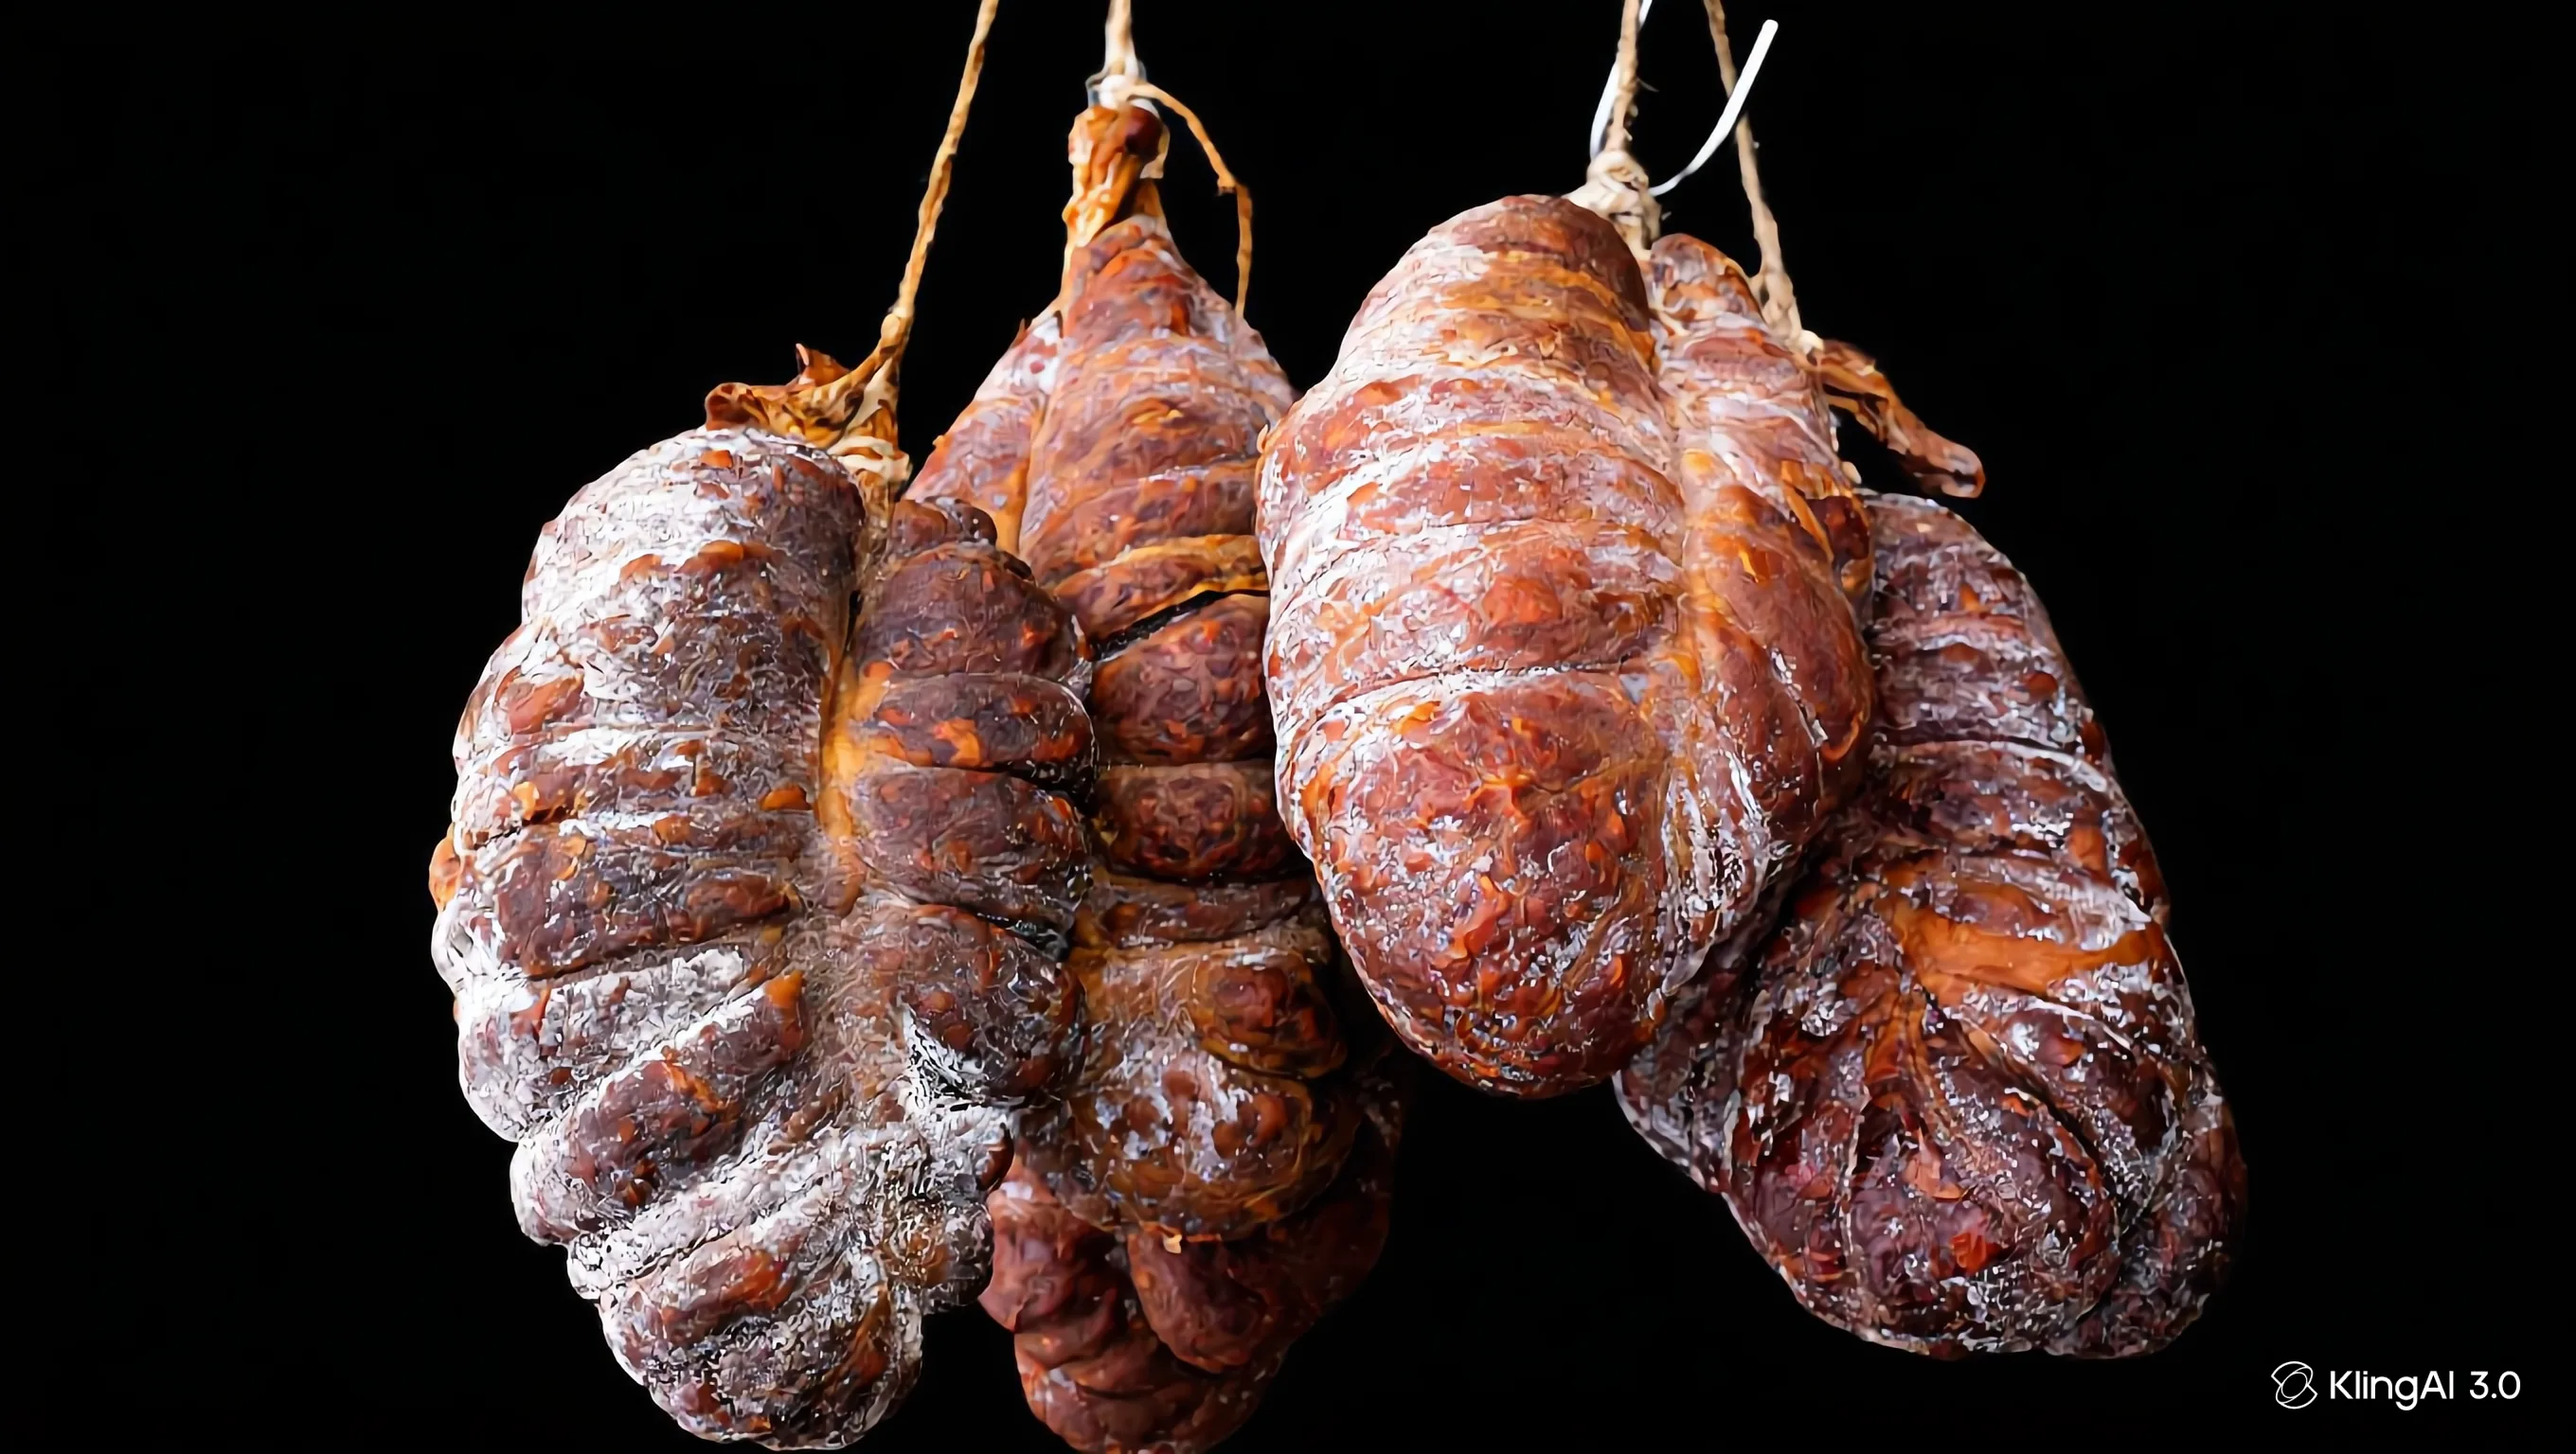
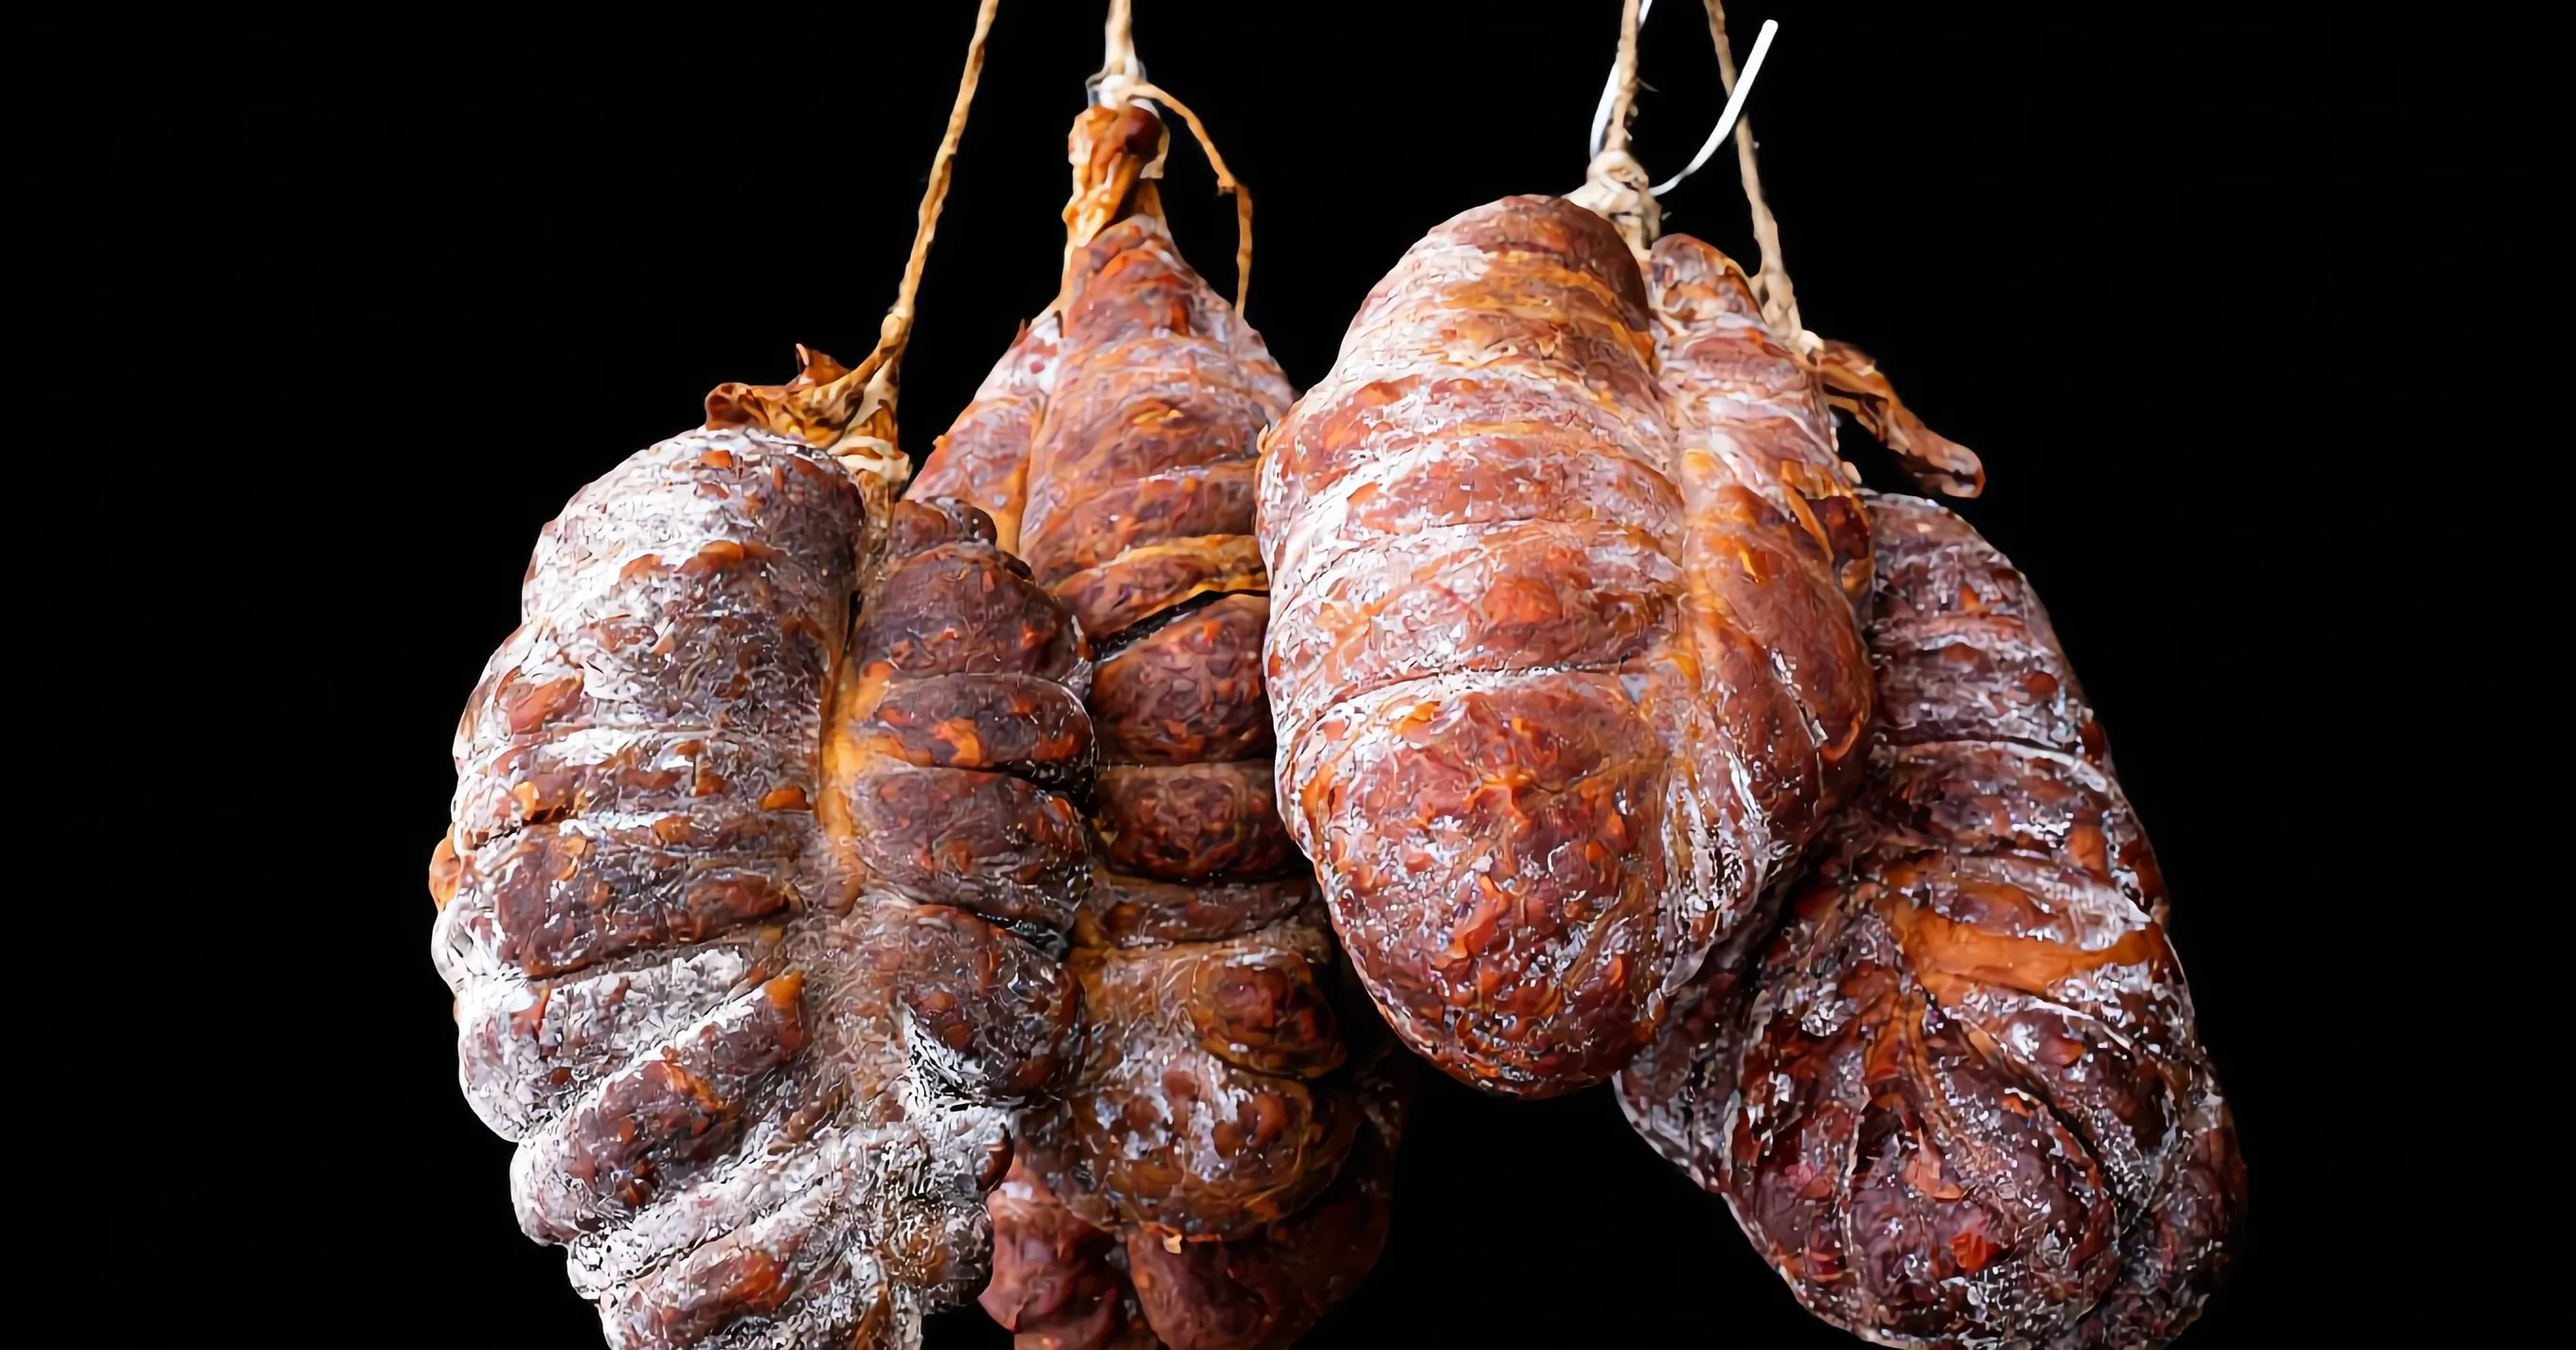
fix: ukloni watermark s kulin_visi, poravnaj s naslovom sekcije
Cropano 110px s dna (KlingAI watermark). Img premjesten unutar .inner
da top:0 odgovara pocetku naslova. opacity: 0.22.

diff --git a/src/components/sections/KulinInfo.jsx b/src/components/sections/KulinInfo.jsx
@@ -57,9 +57,9 @@ const cards = [
 export default function KulinInfo() {
   return (
     <section id="sto-je-kulin" className={styles.section}>
-      <img src="/images/kulin_visi.webp" alt="" aria-hidden="true" className={styles.deco} loading="lazy" decoding="async" />
       <Container>
         <div className={styles.inner}>
+          <img src="/images/kulin_visi.webp" alt="" aria-hidden="true" className={styles.deco} loading="lazy" decoding="async" />
           <div className={styles.header}>
             <span className={styles.label}>Tradicija</span>
             <h2>Što je <em>kulin?</em></h2>

diff --git a/src/components/sections/KulinInfo.module.css b/src/components/sections/KulinInfo.module.css
@@ -15,10 +15,10 @@
 /* Dekorativna slika kulina desno, iza teksta */
 .deco {
   position: absolute;
-  right: 0;
-  top: 0;
-  width: 440px;
-  max-width: 44%;
+  right: -40px;
+  top: -16px;
+  width: 460px;
+  max-width: 46%;
   height: auto;
   opacity: 0.22;
   pointer-events: none;
